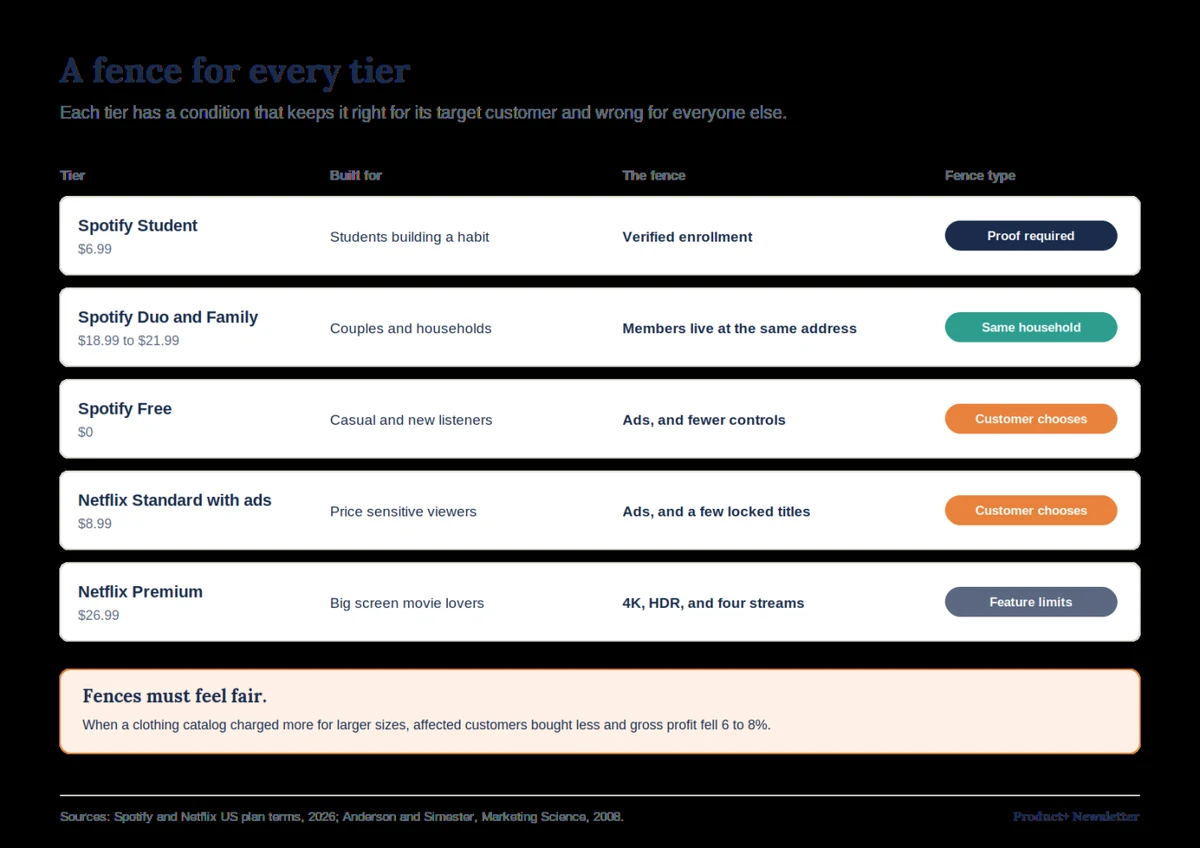
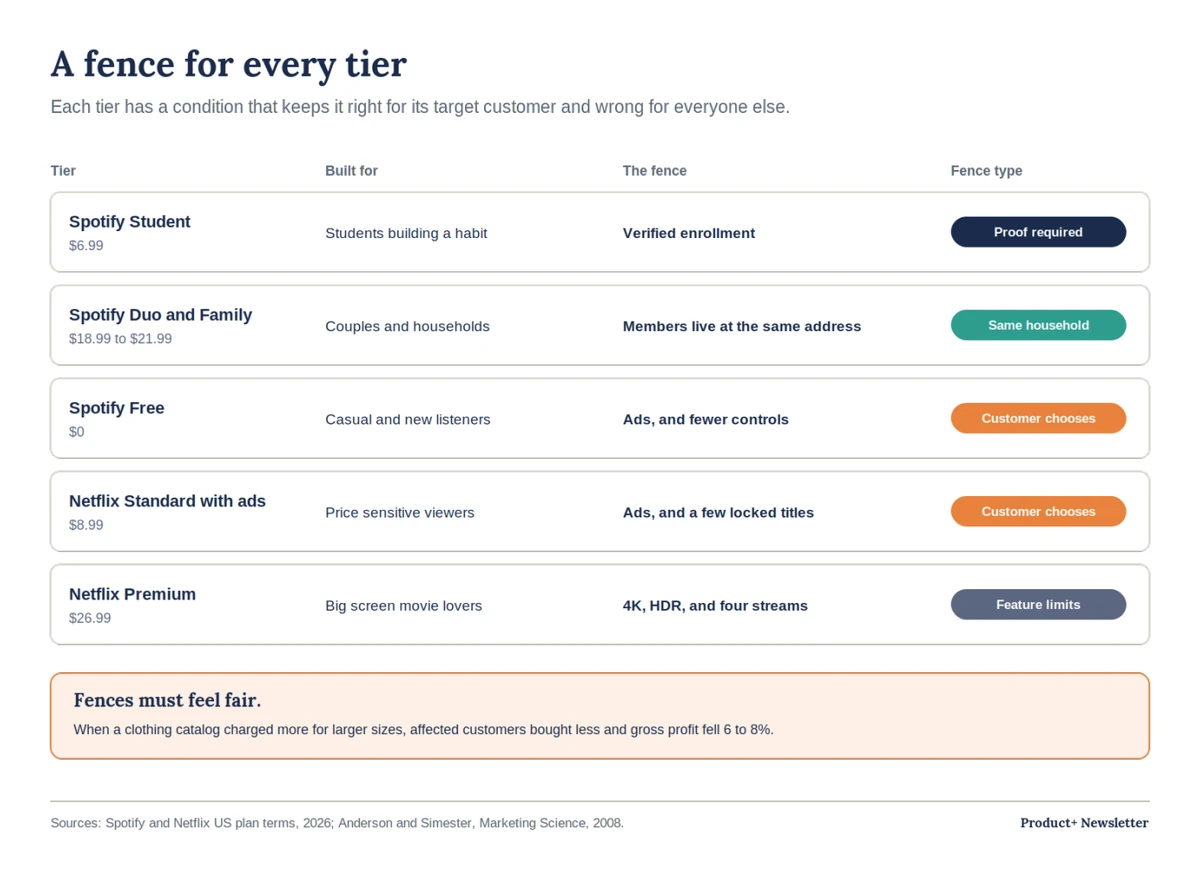
The $3.67 Listener: figures on white (transparent backgrounds showed black), even margins, Priced out label off the curve
Claude-Session: https://claude.ai/code/session_0143wG8GwjduExhtNF7332nR

diff --git a/insights/367-listener.html b/insights/367-listener.html
@@ -82,14 +82,14 @@ height="0" width="0" style="display:none;visibility:hidden"></iframe></noscript>
 <h2>One price leaves money on the table</h2>
 <p>Every product has customers who value it very differently. Some would pay almost anything. Some would pay a little. Many would pay something in between. When you pick a single price, you make two mistakes at once.</p>
 <p>Customers who would have paid more get a bargain, and you never see that extra money. Customers who can't afford your price walk away, and you never see them at all.</p>
-<figure><img src="/assets/insights/367-listener/one-price.webp" alt="Two illustrative demand curves with customers sorted from highest to lowest willingness to pay. With one price of $12, revenue captures about 36% of the value customers would pay; customers above the price would have paid more and customers below it are priced out. With a ladder of four tiers at $32, $18, $10 and $5, revenue captures about 71%." width="1200" height="794" loading="lazy"><figcaption>One price captures about 36% of the value on this illustrative curve; four tiers capture about 71%.</figcaption></figure>
+<figure><img src="/assets/insights/367-listener/one-price.webp" alt="Two illustrative demand curves with customers sorted from highest to lowest willingness to pay. With one price of $12, revenue captures about 36% of the value customers would pay; customers above the price would have paid more and customers below it are priced out. With a ladder of four tiers at $32, $18, $10 and $5, revenue captures about 71%." width="1200" height="827" loading="lazy"><figcaption>One price captures about 36% of the value on this illustrative curve; four tiers capture about 71%.</figcaption></figure>
 <p>Tiers are how you recover both. A lower tier brings in customers who were priced out. A higher tier charges more to customers who value the product most. Done well, the tiers don't compete with each other. They each capture a different slice of the market, and together they capture much more than any single price could. Economists call it price discrimination, which sounds sinister. Product managers call it segmentation, and consumer streaming companies are among the best in the world at it.</p>
 </section>
 <section id="the-cheapest-seat-is-on-the-biggest-plan" data-ask="The $3.67 Listener: The cheapest seat is on the biggest plan" data-kind="Insight" data-keywords="spotify netflix pricing tiers segmentation price discrimination family plan student plan duo free tier ad supported freemium fences willingness to pay good better best saas plans nonprofit pricing multi location">
 <h2>The cheapest seat is on the biggest plan</h2>
 <p>Spotify's US lineup looks simple. A free tier with ads. Student at $6.99 a month. Individual at $12.99. Duo, for two people at the same address, at $18.99. Family, for up to six accounts in one household, at $21.99.</p>
 <p>Look at what each plan costs per account and per person, and the design starts to reveal itself.</p>
-<figure><img src="/assets/insights/367-listener/cheapest-seat.webp" alt="Spotify US Premium plans, price per account and per person at full use: Student $6.99 and $6.99; Individual $12.99 and $12.99; Duo $18.99 and $9.50; Family $21.99 and $3.67. Six Individual plans would cost $77.94 a month; Family costs $21.99." width="1200" height="705" loading="lazy"><figcaption>Family is Spotify's most expensive plan per account and its cheapest per person.</figcaption></figure>
+<figure><img src="/assets/insights/367-listener/cheapest-seat.webp" alt="Spotify US Premium plans, price per account and per person at full use: Student $6.99 and $6.99; Individual $12.99 and $12.99; Duo $18.99 and $9.50; Family $21.99 and $3.67. Six Individual plans would cost $77.94 a month; Family costs $21.99." width="1200" height="708" loading="lazy"><figcaption>Family is Spotify's most expensive plan per account and its cheapest per person.</figcaption></figure>
 <p>The Family plan is Spotify's most expensive plan per account and its cheapest per person. That sounds like a pricing mistake until you think about who buys it. A family of six would never pay $77.94 a month for six Individual plans. Most would keep one account and share it, or put the kids on the free tier. At $21.99, the whole household pays, every month, and each person gets their own account, playlists, and recommendations.</p>
 <p>That last part matters. Six people with six sets of saved music is a household that is very hard to move to a competitor. Spotify gives up revenue per person and gets back something more valuable: an entire household, paying, and deeply attached.</p>
 <p>The Student plan works the same way from the other direction. Students have little money and a lot of time to form habits. At $6.99, Spotify gets them paying now, at a price they can manage, and has several years to become the service they can't imagine leaving before they graduate into the $12.99 plan.</p>
@@ -97,7 +97,7 @@ height="0" width="0" style="display:none;visibility:hidden"></iframe></noscript>
 <section id="a-fence-for-every-tier" data-ask="The $3.67 Listener: A fence for every tier" data-kind="Insight" data-keywords="spotify netflix pricing tiers segmentation price discrimination family plan student plan duo free tier ad supported freemium fences willingness to pay good better best saas plans nonprofit pricing multi location">
 <h2>A fence for every tier</h2>
 <p>The obvious question is why everyone doesn't just buy the cheapest option. The answer is that each tier comes with a fence: a condition that keeps the wrong customers out without driving the right ones away.</p>
-<figure><img src="/assets/insights/367-listener/fences.webp" alt="A fence for every tier. Spotify Student, $6.99, for students building a habit: verified enrollment, proof required. Spotify Duo and Family, $18.99 to $21.99, for couples and households: members live at the same address. Spotify Free, $0, for casual and new listeners: ads and fewer controls, customer chooses. Netflix Standard with ads, $8.99, for price sensitive viewers: ads and a few locked titles, customer chooses. Netflix Premium, $26.99, for big screen movie lovers: 4K, HDR and four streams, feature limits. Fences must feel fair: when a clothing catalog charged more for larger sizes, affected customers bought less and gross profit fell 6 to 8%." width="1200" height="848" loading="lazy"><figcaption>Each tier has a condition that keeps it right for its target customer and wrong for everyone else.</figcaption></figure>
+<figure><img src="/assets/insights/367-listener/fences.webp" alt="A fence for every tier. Spotify Student, $6.99, for students building a habit: verified enrollment, proof required. Spotify Duo and Family, $18.99 to $21.99, for couples and households: members live at the same address. Spotify Free, $0, for casual and new listeners: ads and fewer controls, customer chooses. Netflix Standard with ads, $8.99, for price sensitive viewers: ads and a few locked titles, customer chooses. Netflix Premium, $26.99, for big screen movie lovers: 4K, HDR and four streams, feature limits. Fences must feel fair: when a clothing catalog charged more for larger sizes, affected customers bought less and gross profit fell 6 to 8%." width="1200" height="879" loading="lazy"><figcaption>Each tier has a condition that keeps it right for its target customer and wrong for everyone else.</figcaption></figure>
 <p>The Student plan requires proof of enrollment. Duo and Family require members to live at the same address. Netflix Premium reserves 4K and four simultaneous streams for its top tier, which matters a great deal to a movie lover with a large TV and not at all to someone who watches on a phone.</p>
 <p>The most elegant fence of all is the one customers put up themselves. The free and ad supported tiers don't require any proof of anything. They simply come with ads. People who value their time and attention will pay to remove them. People who don't mind them won't. Each customer sorts themselves into the right tier, and nobody feels judged or excluded, because the choice was theirs.</p>
 <p>Good fences have one thing in common: they feel fair. A student discount feels fair. A family plan feels fair. What doesn't feel fair is a fence that seems to punish customers for who they are. In one large field test, a women's clothing catalog tried charging more for larger sizes. Customers who needed the larger sizes saw the premium as unfair and bought less, and the premium pricing cut the catalog's gross profits by 6 to 8 percent. The segmentation was economically logical and commercially disastrous, because the fence was drawn in the wrong place.</p>
@@ -106,7 +106,7 @@ height="0" width="0" style="display:none;visibility:hidden"></iframe></noscript>
 <h2>The free tier is not a charity</h2>
 <p>Spotify's free tier is enormous. At the end of June 2026, Spotify had 777 million monthly users. 494 million of them used the free, ad supported version, and 300 million people paid for Premium. (Spotify counts listeners and paying subscribers in different ways, so the two figures don't add up to the total.)</p>
 <p>The revenue tells a very different story.</p>
-<figure><img src="/assets/insights/367-listener/free-tier-revenue.webp" alt="Spotify, second quarter of 2026. Users: 494 million ad supported and 300 million Premium. Revenue: €446 million ad supported and €4,331 million Premium. Revenue per user per quarter: €0.90 for an ad supported listener and €14.44 for a Premium subscriber, about 16 times more." width="1200" height="732" loading="lazy"><figcaption>Ad supported listeners outnumber Premium subscribers, but the money runs the other way.</figcaption></figure>
+<figure><img src="/assets/insights/367-listener/free-tier-revenue.webp" alt="Spotify, second quarter of 2026. Users: 494 million ad supported and 300 million Premium. Revenue: €446 million ad supported and €4,331 million Premium. Revenue per user per quarter: €0.90 for an ad supported listener and €14.44 for a Premium subscriber, about 16 times more." width="1200" height="751" loading="lazy"><figcaption>Ad supported listeners outnumber Premium subscribers, but the money runs the other way.</figcaption></figure>
 <p>In the second quarter of 2026, Premium brought in about €4.33 billion. The ad supported business brought in about €446 million. Averaged per user, a Premium subscriber generated roughly sixteen times as much revenue in the quarter as a free listener.</p>
 <p>So why keep the free tier at all? Because it does two jobs no paid plan can. It earns advertising revenue from people who would otherwise pay nothing. And it is the widest possible front door. Every free listener is a potential Premium subscriber who has already built playlists, followed artists, and trained the recommendations. When they finally get tired of the ads, or take a long flight and want offline listening, the upgrade is one tap away and everything they built comes with them.</p>
 <p><b>The free tier isn't the cheap version of the product. It's the first step of the staircase.</b></p>
@@ -115,7 +115,7 @@ height="0" width="0" style="display:none;visibility:hidden"></iframe></noscript>
 <h2>Netflix and the widening gap</h2>
 <p>Netflix offers a different lesson, about what you do with the tiers once they exist.</p>
 <p>When Netflix launched its ad supported plan in November 2022, it cost $6.99 a month, and a cheaper ad free option called Basic still existed at $9.99. Over the next two years, Netflix closed Basic to new members and then retired it entirely. And with each price change since, the ad free plans have risen faster than the plan with ads.</p>
-<figure><img src="/assets/insights/367-listener/netflix-gap.webp" alt="Netflix US monthly plan prices since November 2022. With ads rose from $6.99 to $8.99; Standard from $15.49 to $19.99; Premium from $19.99 to $26.99. The gap between the ad tier and Standard widened from $8.50 to $11. Basic, the cheap ad free plan at $9.99, was closed to new members in 2023 and retired in 2024." width="1200" height="766" loading="lazy"><figcaption>The ad tier rose $2 since launch. Standard rose $4.50 and Premium $7, while the cheapest ad free option disappeared.</figcaption></figure>
+<figure><img src="/assets/insights/367-listener/netflix-gap.webp" alt="Netflix US monthly plan prices since November 2022. With ads rose from $6.99 to $8.99; Standard from $15.49 to $19.99; Premium from $19.99 to $26.99. The gap between the ad tier and Standard widened from $8.50 to $11. Basic, the cheap ad free plan at $9.99, was closed to new members in 2023 and retired in 2024." width="1200" height="786" loading="lazy"><figcaption>The ad tier rose $2 since launch. Standard rose $4.50 and Premium $7, while the cheapest ad free option disappeared.</figcaption></figure>
 <p>Today, Standard with ads costs $8.99, Standard costs $19.99, and Premium costs $26.99. The gap between the ad tier and Standard has widened from $8.50 to $11 a month. For a price sensitive household, the choice is now clear. The ad tier is the affordable way in, and the cheap ad free exit is gone.</p>
 <p>This isn't a trick. It reflects what each tier is worth to Netflix. An ad tier subscriber pays less, but also generates advertising revenue that a Standard subscriber doesn't. By one industry estimate, roughly 40 percent of active Netflix accounts are now on ad supported plans, and Netflix reportedly expects its ad revenue to about double this year. Removing Basic didn't shrink the audience. It moved price sensitive viewers into the tier that pays Netflix twice: once from the viewer and once from the advertiser.</p>
 <p>The broader point for product managers is that tiers aren't static. The gaps between them are a lever. Widen one gap and customers drift toward the tier you want to grow. Close a tier, and you decide where its customers go next.</p>
@@ -124,7 +124,7 @@ height="0" width="0" style="display:none;visibility:hidden"></iframe></noscript>
 <h2>What Jordan changed</h2>
 <p>Jordan spent the next week mapping Cadence's customers the way Spotify maps listeners. Who valued the product most? Who was priced out entirely? And what fence would let her serve each group differently without anyone feeling cheated?</p>
 <p>She ended up with three new tiers, each with a clear fence.</p>
-<figure><img src="/assets/insights/367-listener/cadence-tiers.webp" alt="Cadence&#x27;s new tiers around its existing Starter to Pro staircase ($59 to $299, for independent practices, fenced by plan limits). New: Solo, free, for single provider practices, fenced by reminders that say powered by Cadence (customer chooses). Community, $89, for health centers and nonprofits, fenced by verified nonprofit status (proof required). Group, $149 per location, for practices with several sites, fenced by multiple locations under one admin. Six months later: dozens of health centers that could not afford Cadence before, Group accounts worth about 3 times a single practice, and about 1 in 10 Solo practices upgraded, most within four months. Illustrative figures." width="1200" height="683" loading="lazy"><figcaption>Three new tiers, each with its own fence. Illustrative figures for a fictional company.</figcaption></figure>
+<figure><img src="/assets/insights/367-listener/cadence-tiers.webp" alt="Cadence&#x27;s new tiers around its existing Starter to Pro staircase ($59 to $299, for independent practices, fenced by plan limits). New: Solo, free, for single provider practices, fenced by reminders that say powered by Cadence (customer chooses). Community, $89, for health centers and nonprofits, fenced by verified nonprofit status (proof required). Group, $149 per location, for practices with several sites, fenced by multiple locations under one admin. Six months later: dozens of health centers that could not afford Cadence before, Group accounts worth about 3 times a single practice, and about 1 in 10 Solo practices upgraded, most within four months. Illustrative figures." width="1200" height="702" loading="lazy"><figcaption>Three new tiers, each with its own fence. Illustrative figures for a fictional company.</figcaption></figure>
 <p><b>The first was Community</b>, for federally qualified health centers and nonprofit clinics. It carried the full Growth feature set at a steep discount, and its fence was verification, just like Spotify Student. A for profit practice couldn't qualify, and a health center that did qualify got a tool it could finally afford.</p>
 <p><b>The second was Group</b>, for practices with several locations. Like Spotify Family, it cost more per account and less per location, with one shared admin console, one bill, and pooled messaging across every site. The orthopedic group that had wanted a custom quote could now buy from the pricing page. And because every location's schedules and patient history lived in one account, a Group customer would be far harder to lose than six separate practices.</p>
 <p><b>The third was Solo</b>, a free plan for single provider practices. Its fence was the one customers choose for themselves: every reminder text a Solo practice sent included a short line saying it was powered by Cadence. Practices that minded the branding could remove it by upgrading to Starter. Practices that didn't mind it got a genuinely useful tool for free, and Cadence got its name in front of thousands of patients and the other clinics they visit.</p>
